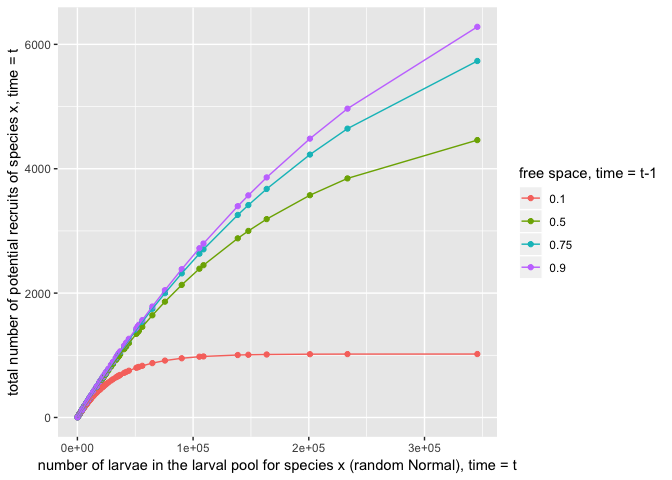
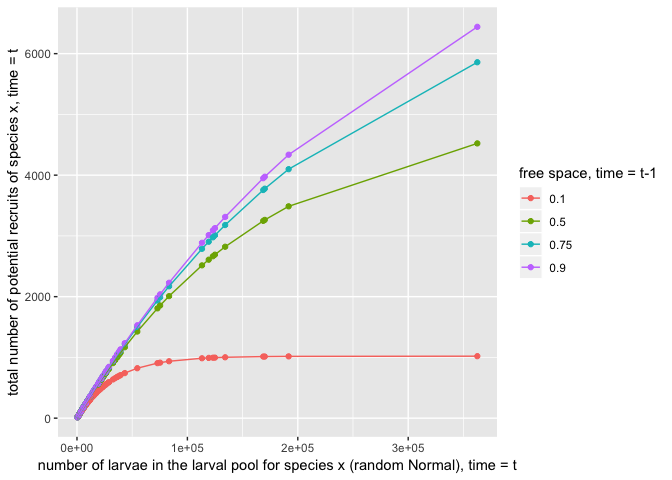
run the iwasa & roughgarden model for recruitment

diff --git a/foodwebs/intertidal_foodweb/testing_fd_assumptions.md b/foodwebs/intertidal_foodweb/testing_fd_assumptions.md
@@ -79,4 +79,29 @@ do_R_x <- function(F_tprev, L_x, A_x, L_y, A_y) (F_tprev / ((L_x * A_x) + (L_y *
 
 ![](testing_fd_assumptions_files/figure-markdown_github/unnamed-chunk-7-1.png)
 
-often see that the number of actual recruits &gt;&gt; potential recruits in the larval pool, as a function of multiple factors.
+often see that the number of actual recruits &gt;&gt; potential recruits in the larval pool, as a function of multiple factors. this is likely due to the form of the function.
+
+instead rewrite function following iwasa & roughgarden 1986
+
+``` r
+# here, the abundance of larvae of the ith species is equation 3 in I & R, but just assumed to be a random lognormal draw in F & D (l_x)
+do_F_prev <- function(A, a_x, X, a_y, Y) {A - ((a_x * X) + (a_y * Y))}
+do_R_x_ir <- function(c_x, L_x, F_tprev) c_x * L_x * F_tprev
+
+A <- 1
+X_0 <- c(1, 1000, 10000, 100000)
+Y_0 <- c(1, 1000, 10000, 100000)
+a_x <- 3 * (10^-6)
+a_y <- 3 * (10^-6)
+# recruit supply rate c should = sr, which is 0.7 in f&d
+c_x <- c(0.1, 0.25, 0.5, 0.7, 0.99)
+L_x <- c(100, 1000, 2500, 5000, 10000)
+```
+
+![](testing_fd_assumptions_files/figure-markdown_github/unnamed-chunk-9-1.png)
+
+Here, the dynamics are much more reasonable. Across a range of total population sizes (1, ..., 1e+05), can see that:
+
+1.  actual recruitment never exceeds potential recruitment,
+2.  higher larval settlement rates result in larger actual recruitment events
+3.  less free space results in lower recruitment
